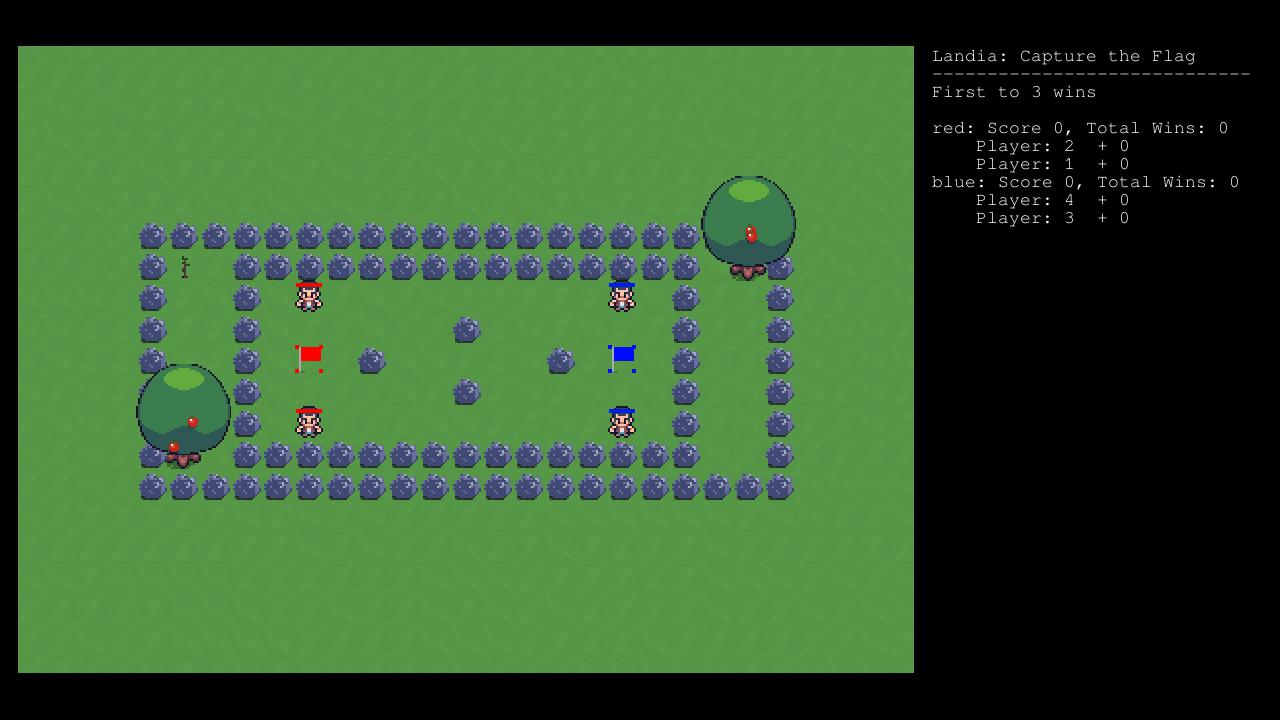
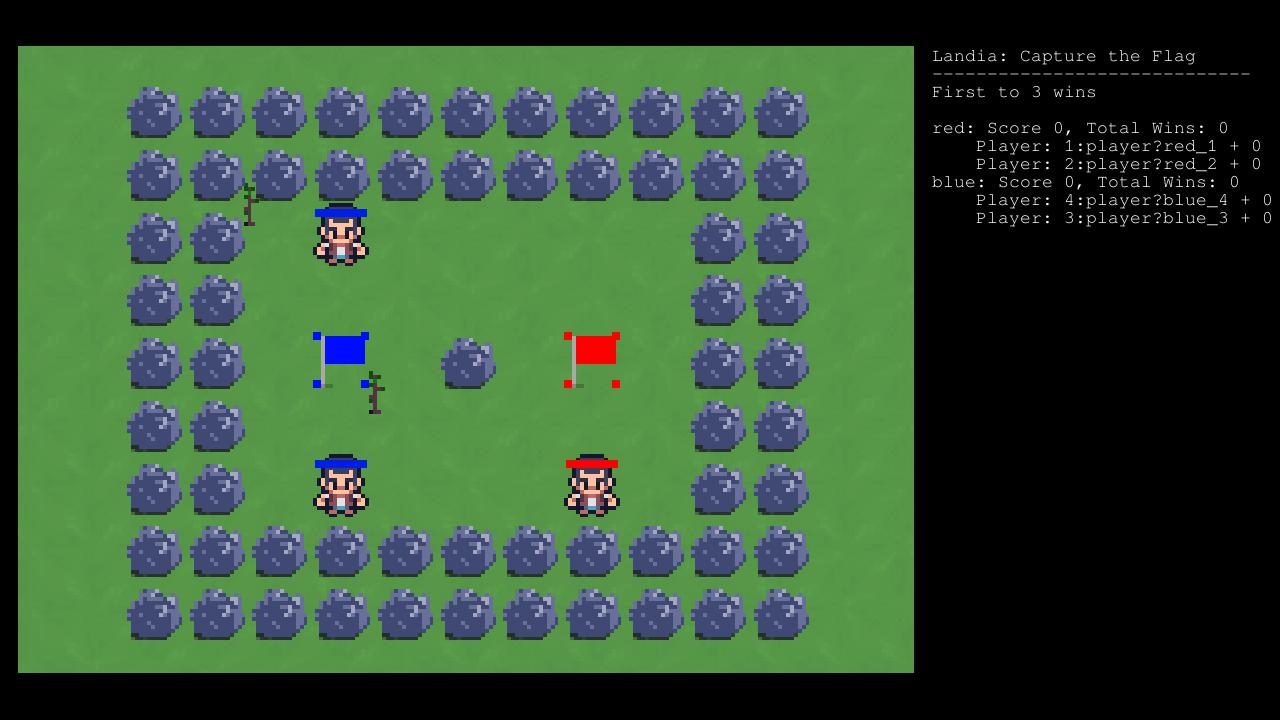
updated landia

Changed region(s): [[0.0938, 0.1222, 0.6562, 0.8861], [0.8438, 0.1833, 0.9375, 0.2444], [0.8438, 0.275, 1.0, 0.3056]]

diff --git a/src/pistarlab-landia/pistarlab_landia/extension.py b/src/pistarlab-landia/pistarlab_landia/extension.py
@@ -52,7 +52,8 @@ def get_env_specs():
                     "main": {"static_layers": ['ctf_map_1.txt']}
                 }
 
-            }},
+            },
+            "config_filename": "ctf.json"},
         entry_point="landia.env:LandiaEnv",
         default_render_mode='rgb_array',
         default_wrappers=[])
@@ -70,12 +71,10 @@ def get_env_specs():
             "resolution": (42, 42),
             "port": 10001,
             "content_overrides": {
-                'active_controllers': ["pspawn", "foodcollect", "objcollision"],
-                "maps": {
-                    "main": {"static_layers": ['map_9x9_vwall.txt']}
-                }
-
-            }},
+                             
+            },
+            "config_filename": "forager.json"
+            },
         entry_point="landia.env:LandiaEnv",
         default_render_mode='rgb_array',
         default_wrappers=[])
@@ -92,11 +91,8 @@ def get_env_specs():
             "hostname": "localhost",
             "resolution": (42, 42),
             "port": 10001,
-            "content_overrides": {
-                'active_controllers': ["pspawn", "objcollision", "infect1"],
-                "maps": {
-                    "main": {"static_layers": ['map_9x9_vwall.txt']}
-                }}
+            "content_overrides": {},
+            "config_filename": "infection.json"
         },
 
         entry_point="landia.env:LandiaEnv",
@@ -104,27 +100,27 @@ def get_env_specs():
         default_wrappers=[])
     spec_list.append(spec)
 
-    spec = get_env_spec_data(
-        displayed_name="Landia: Tag",
-        spec_displayed_name="Tag",
-        spec_id='landia_tag',
-        env_type=RL_MULTIPLAYER_ENV,
-        env_kwargs={
-            "remote_client": False,
-            "tick_rate": 0,
-            "hostname": "localhost",
-            "resolution": (42, 42),
-            "port": 10001,
-            "content_overrides": {
-                'active_controllers': ["pspawn", "objcollision", "tag1"],
-                "maps": {
-                    "main": {"static_layers": ['map_8x8_empty.txt']}
-                }
-            }},
-        entry_point="landia.env:LandiaEnv",
-        default_render_mode='rgb_array',
-        default_wrappers=[])
-    spec_list.append(spec)
+    # spec = get_env_spec_data(
+    #     displayed_name="Landia: Tag",
+    #     spec_displayed_name="Tag",
+    #     spec_id='landia_tag',
+    #     env_type=RL_MULTIPLAYER_ENV,
+    #     env_kwargs={
+    #         "remote_client": False,
+    #         "tick_rate": 0,
+    #         "hostname": "localhost",
+    #         "resolution": (42, 42),
+    #         "port": 10001,
+    #         "content_overrides": {
+    #             'active_controllers': ["pspawn", "objcollision", "tag1"],
+    #             "maps": {
+    #                 "main": {"static_layers": ['map_8x8_empty.txt']}
+    #             }
+    #         }},
+    #     entry_point="landia.env:LandiaEnv",
+    #     default_render_mode='rgb_array',
+    #     default_wrappers=[])
+    # spec_list.append(spec)
 
     return spec_list
 
